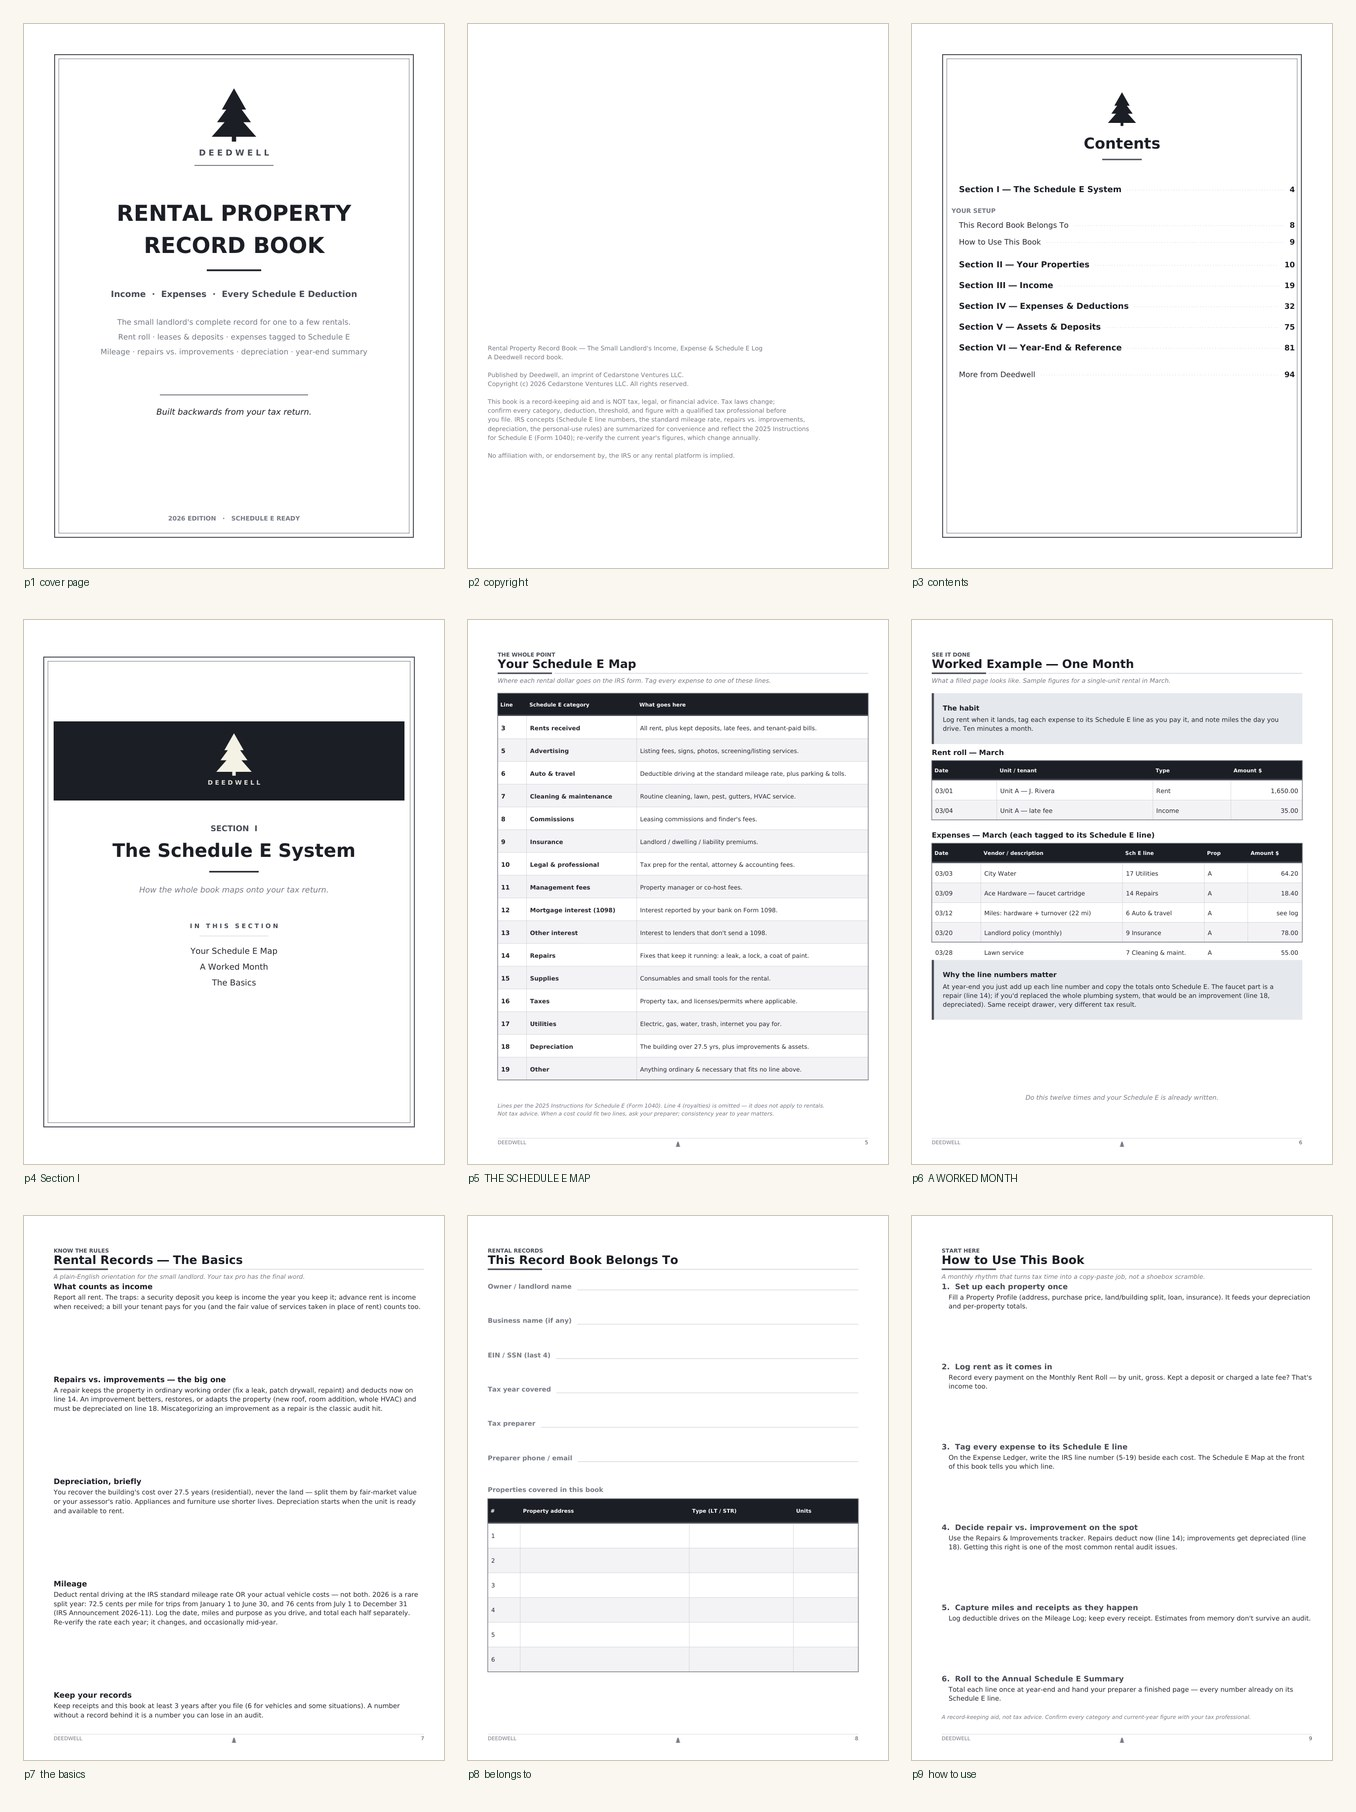
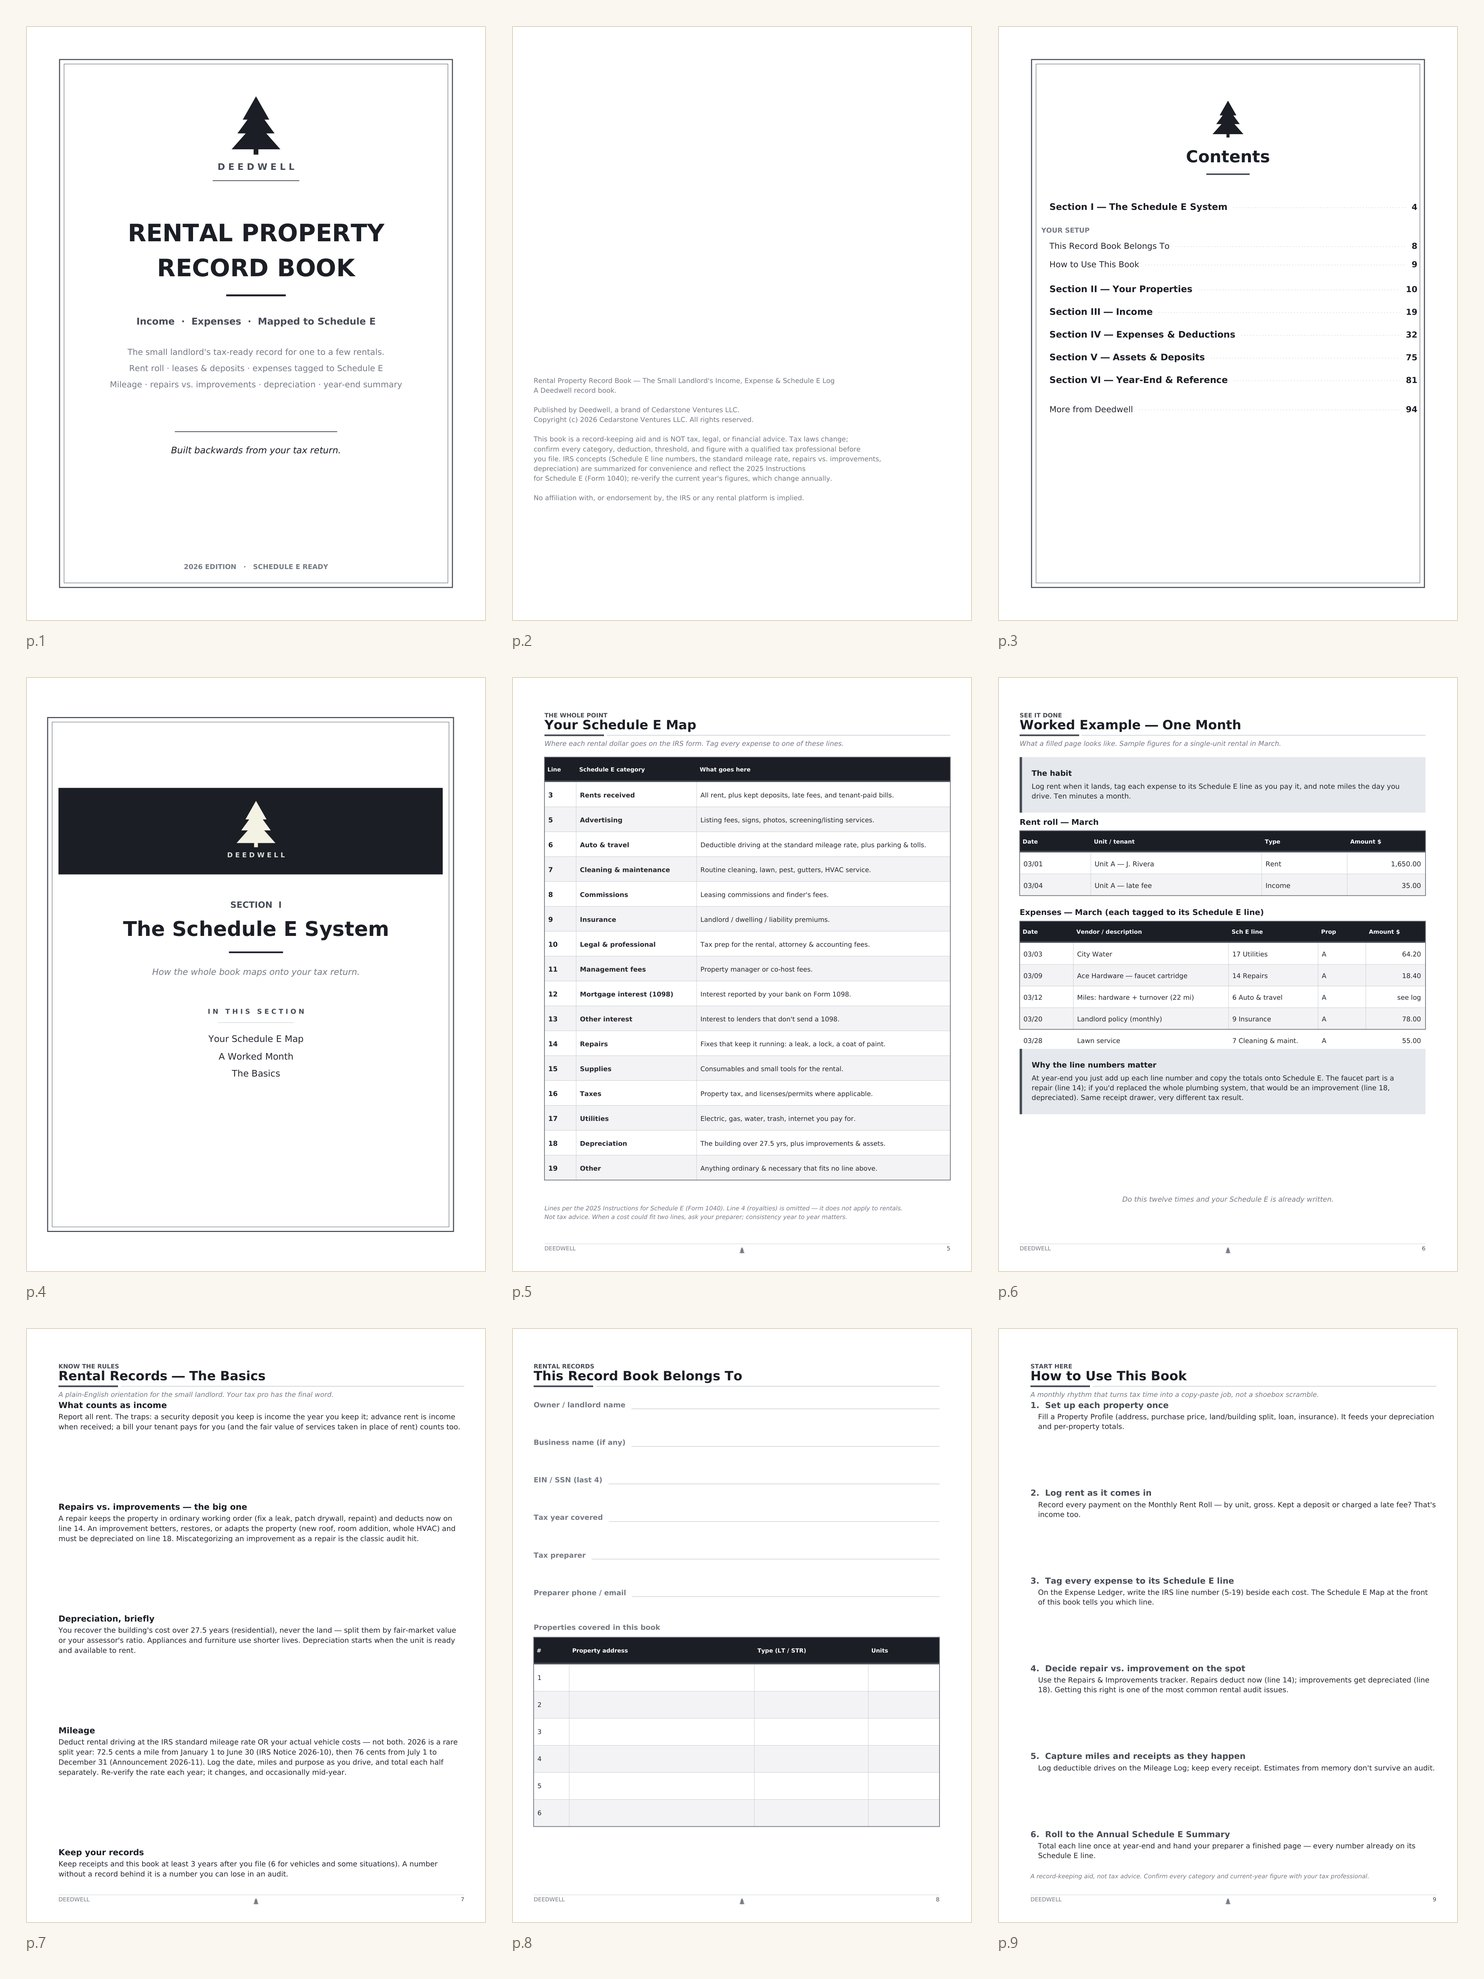
review: the page built so he sees the product first was showing the old book
All six proof images were regenerated from the current artifacts. Every one of them
changed, so every one was stale - not the two the second engine caught.

What he would have reviewed until now: a cover still reading "BY CEDARSTONE", a line
cut at 02:36 today, and expense ledger pages with no tally strip, the single most
concrete edge we have on a shelf whose rival already claims the mechanism. Approving
that page meant approving a book that no longer exists.

Now visible because it is now true: p.33 and p.62 carry the 15-box Schedule E tally
strip and PAGE TOTAL; p.68 carries the split-rate year band that runs 72.5 cents to
30 June and 76 cents from 1 July into a single Schedule E line 6 total; the mileage
footnote cites Notice 2026-10 and Announcement 2026-11 to the half each one governs.

Also fixed, found while reading the page against the book: the body-pages caption
ended "We print both. and give you nowhere to split it." - a mangled fragment that as
written said WE give the reader nowhere to split it, the exact opposite of the point.
It now names the two rates, their two sources and the page that totals them.

The header carries a provenance stamp and links img/MANIFEST.json, which holds the
sha256 of the book, checklist, cover and wrap these images were built from. Builder:
kdp-stack build/build_review_gallery.py (1ba5b5b).

diff --git a/review/index.html b/review/index.html
@@ -17,6 +17,9 @@ body{background:var(--paper);color:var(--ink);font-family:var(--sans);line-heigh
 header{background:var(--cedar);color:#F4F0E6;padding:34px 0 30px;margin-bottom:34px}
 h1{font-family:var(--serif);font-weight:600;font-size:clamp(1.6rem,4.5vw,2.4rem);line-height:1.15;margin-bottom:10px}
 header p{color:#C9BCA3;font-size:.98rem;max-width:60ch}
+.stamp{margin-top:14px;padding-top:12px;border-top:1px solid rgba(201,188,163,.28);
+ font-size:.84rem;color:#A99B82;max-width:72ch}
+.stamp a{color:#D9C68F}
 .eyebrow{font-size:.68rem;letter-spacing:.2em;text-transform:uppercase;color:#C9BCA3;margin-bottom:12px}
 section{margin-bottom:44px;padding-bottom:34px;border-bottom:1px solid var(--line)}
 section:last-of-type{border-bottom:0}
@@ -33,9 +36,10 @@ a{color:var(--cedar)}
 
 <header>
   <div class="wrap">
-    <p class="eyebrow">Cedarstone Ventures LLC &middot; internal &middot; 25 July 2026</p>
+    <p class="eyebrow">Cedarstone Ventures LLC &middot; internal &middot; 26 July 2026</p>
     <h1>Deedwell #1 &mdash; everything a customer touches</h1>
     <p>Final state before publishing. Nothing is live on Amazon. Every page below is rendered from the actual built file, not a mockup.</p>
+    <p class="stamp">Rebuilt 26 July from the 94-page book as it stands now. The first version of this page was built on 25 July and never regenerated, so until today it showed you the older book &mdash; an earlier cover line, and ledger pages without their tally strip. Provenance for every image: <a href="img/MANIFEST.json">MANIFEST.json</a>.</p>
   </div>
 </header>
 
@@ -58,7 +62,7 @@ a{color:var(--cedar)}
   <section>
     <span class="tag">Inside</span>
     <h2>Nine more pages from the body</h2>
-    <p class="note">The mileage page carries the 2026 split rate with a year-total band that separates the two halves and lands the result on Schedule E line 6. We print both. and give you nowhere to split it.</p>
+    <p class="note">Every expense ledger page (p.33 and p.62 here) ends in a 15-box strip that totals the page by Schedule E line, so a year of entries adds up instead of just piling up. The mileage pages carry the 2026 split rate &mdash; 72.5 cents to 30 June under Notice 2026-10, 76 cents from 1 July under Announcement 2026-11 &mdash; and p.68 totals the two halves separately onto Schedule E line 6. A book that prints one rate for 2026 gives you nowhere to split it.</p>
     <img src="img/B_interior_pages.jpg" alt="Nine interior pages">
   </section>
 
